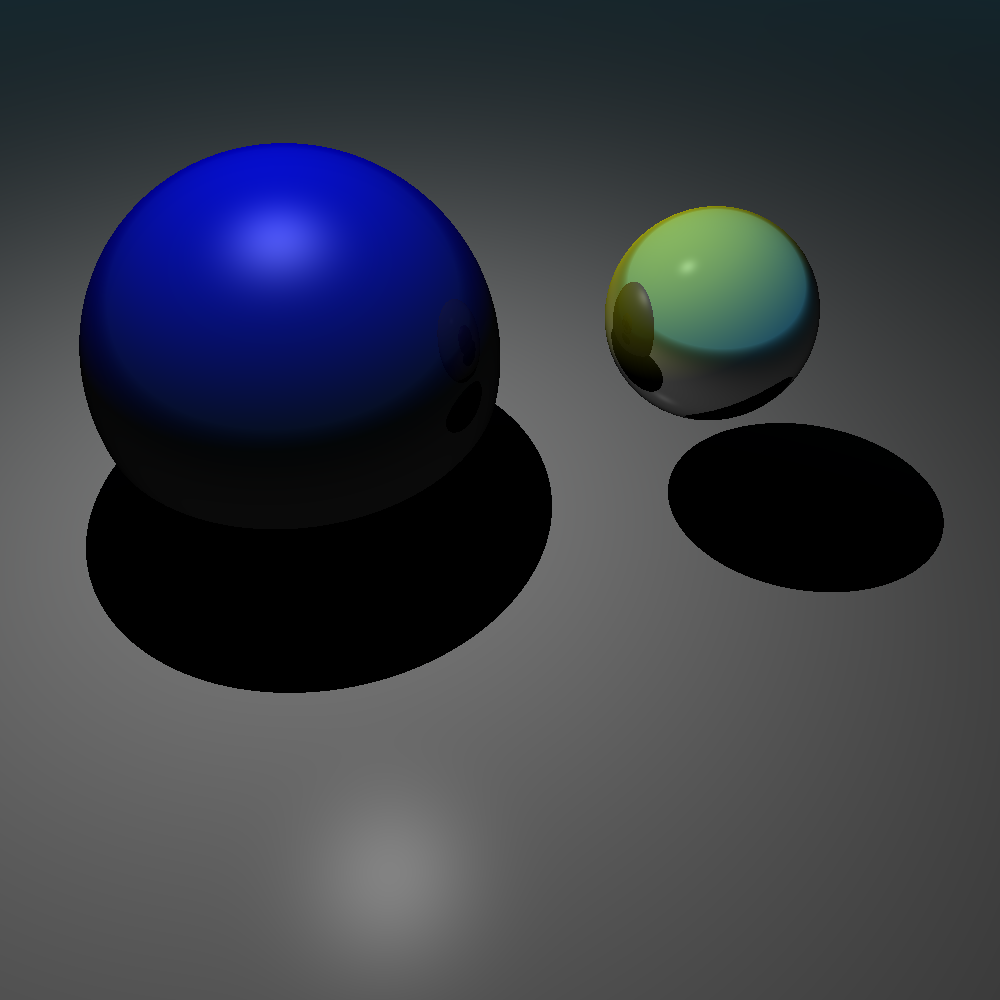
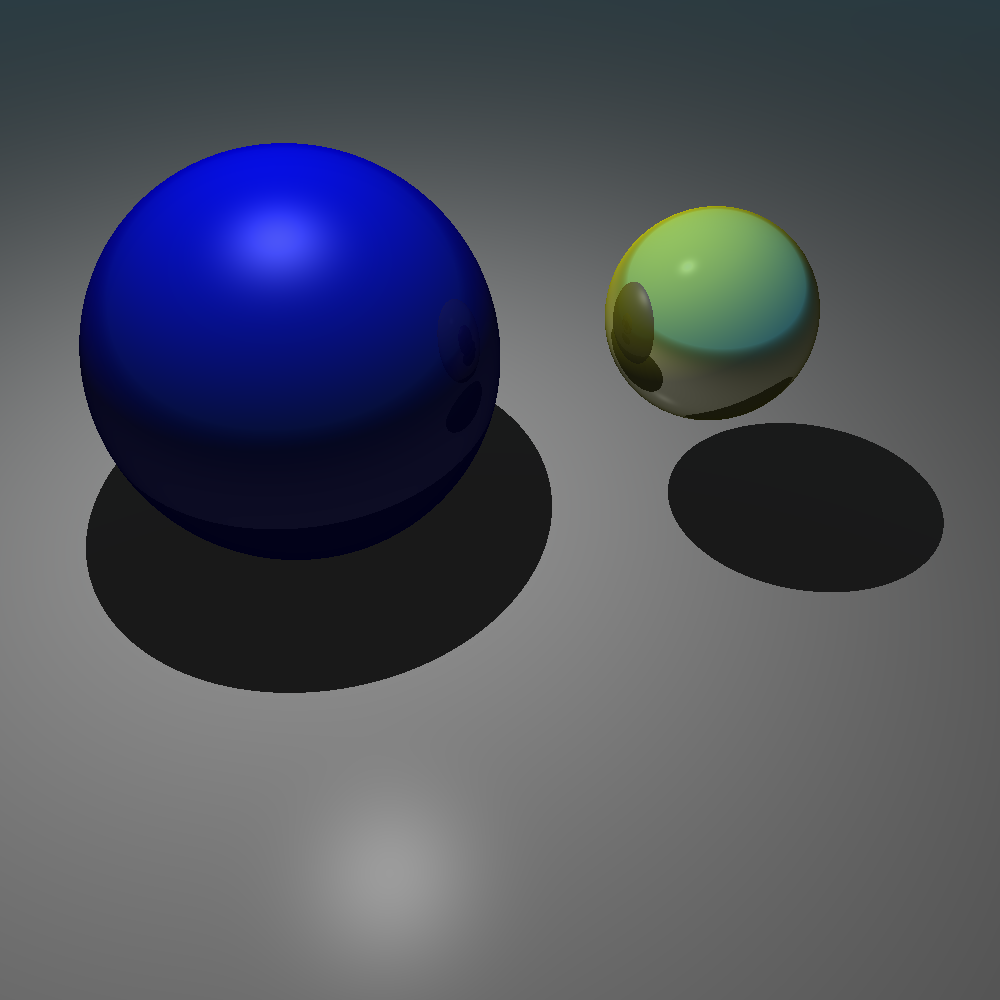
Modified how absorption color is computed by default, updated README images

diff --git a/Scenes/example_4.py b/Scenes/example_4.py
@@ -14,7 +14,7 @@ scene_objects = [objects.Sphere(z=-10000000, radius=10000000,
                                 material=materials.Material(diffuse_color=RED,
                                                             smoothness=0.6))
                  ]
-light_sources = [objects.PointSource(x=4, y=0, z=10, intensity=10 ** 2)]
+light_sources = [objects.DiskSource(x=4, y=0, z=10, intensity=10 ** 2)]
 camera = objects.Camera(x=-4, y=1, z=1, viewing_direction=np.array([1.0, 0.0, -0.1]))
 screen = camera.screen
 ambient_light = objects.AmbientLight(intensity=1/10, color=WHITE)

diff --git a/materials.py b/materials.py
@@ -20,7 +20,7 @@ class Material:
         self.attenuation_coefficient = attenuation_coefficient
         if absorption_color is None:
             absorption_color = 1 - self.diffuse_color
-            color_norm = np.sum(absorption_color)
+            color_norm = np.max(absorption_color)
             if color_norm == 0:
                 absorption_color = WHITE.copy()
             else:
